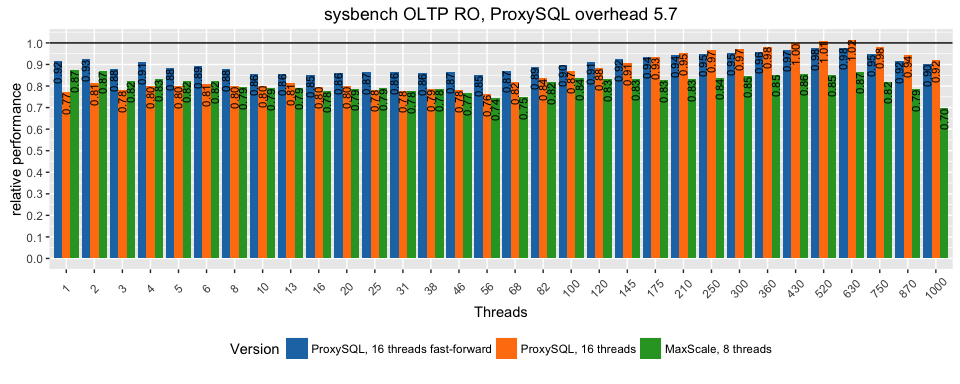
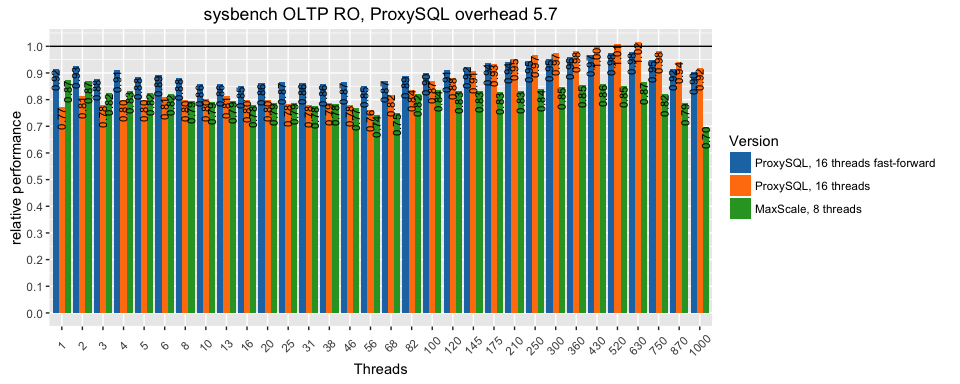
more charts for proxy

diff --git a/remote-OLTP-proxy-may/proxy-OLTP.md b/remote-OLTP-proxy-may/proxy-OLTP.md
@@ -15,6 +15,14 @@ Setup
 Results
 -------
 
+![](proxy-OLTP_files/figure-markdown_github/proxysql-1.png)
+
+![](proxy-OLTP_files/figure-markdown_github/proxysql-ff-1.png)
+
+![](proxy-OLTP_files/figure-markdown_github/proxysql-maxscale-1.png)
+
+![](proxy-OLTP_files/figure-markdown_github/proxysql-maxscale-16thr-1.png)
+
 ![](proxy-OLTP_files/figure-markdown_github/test-1.png)
 
 ### Relative performance
